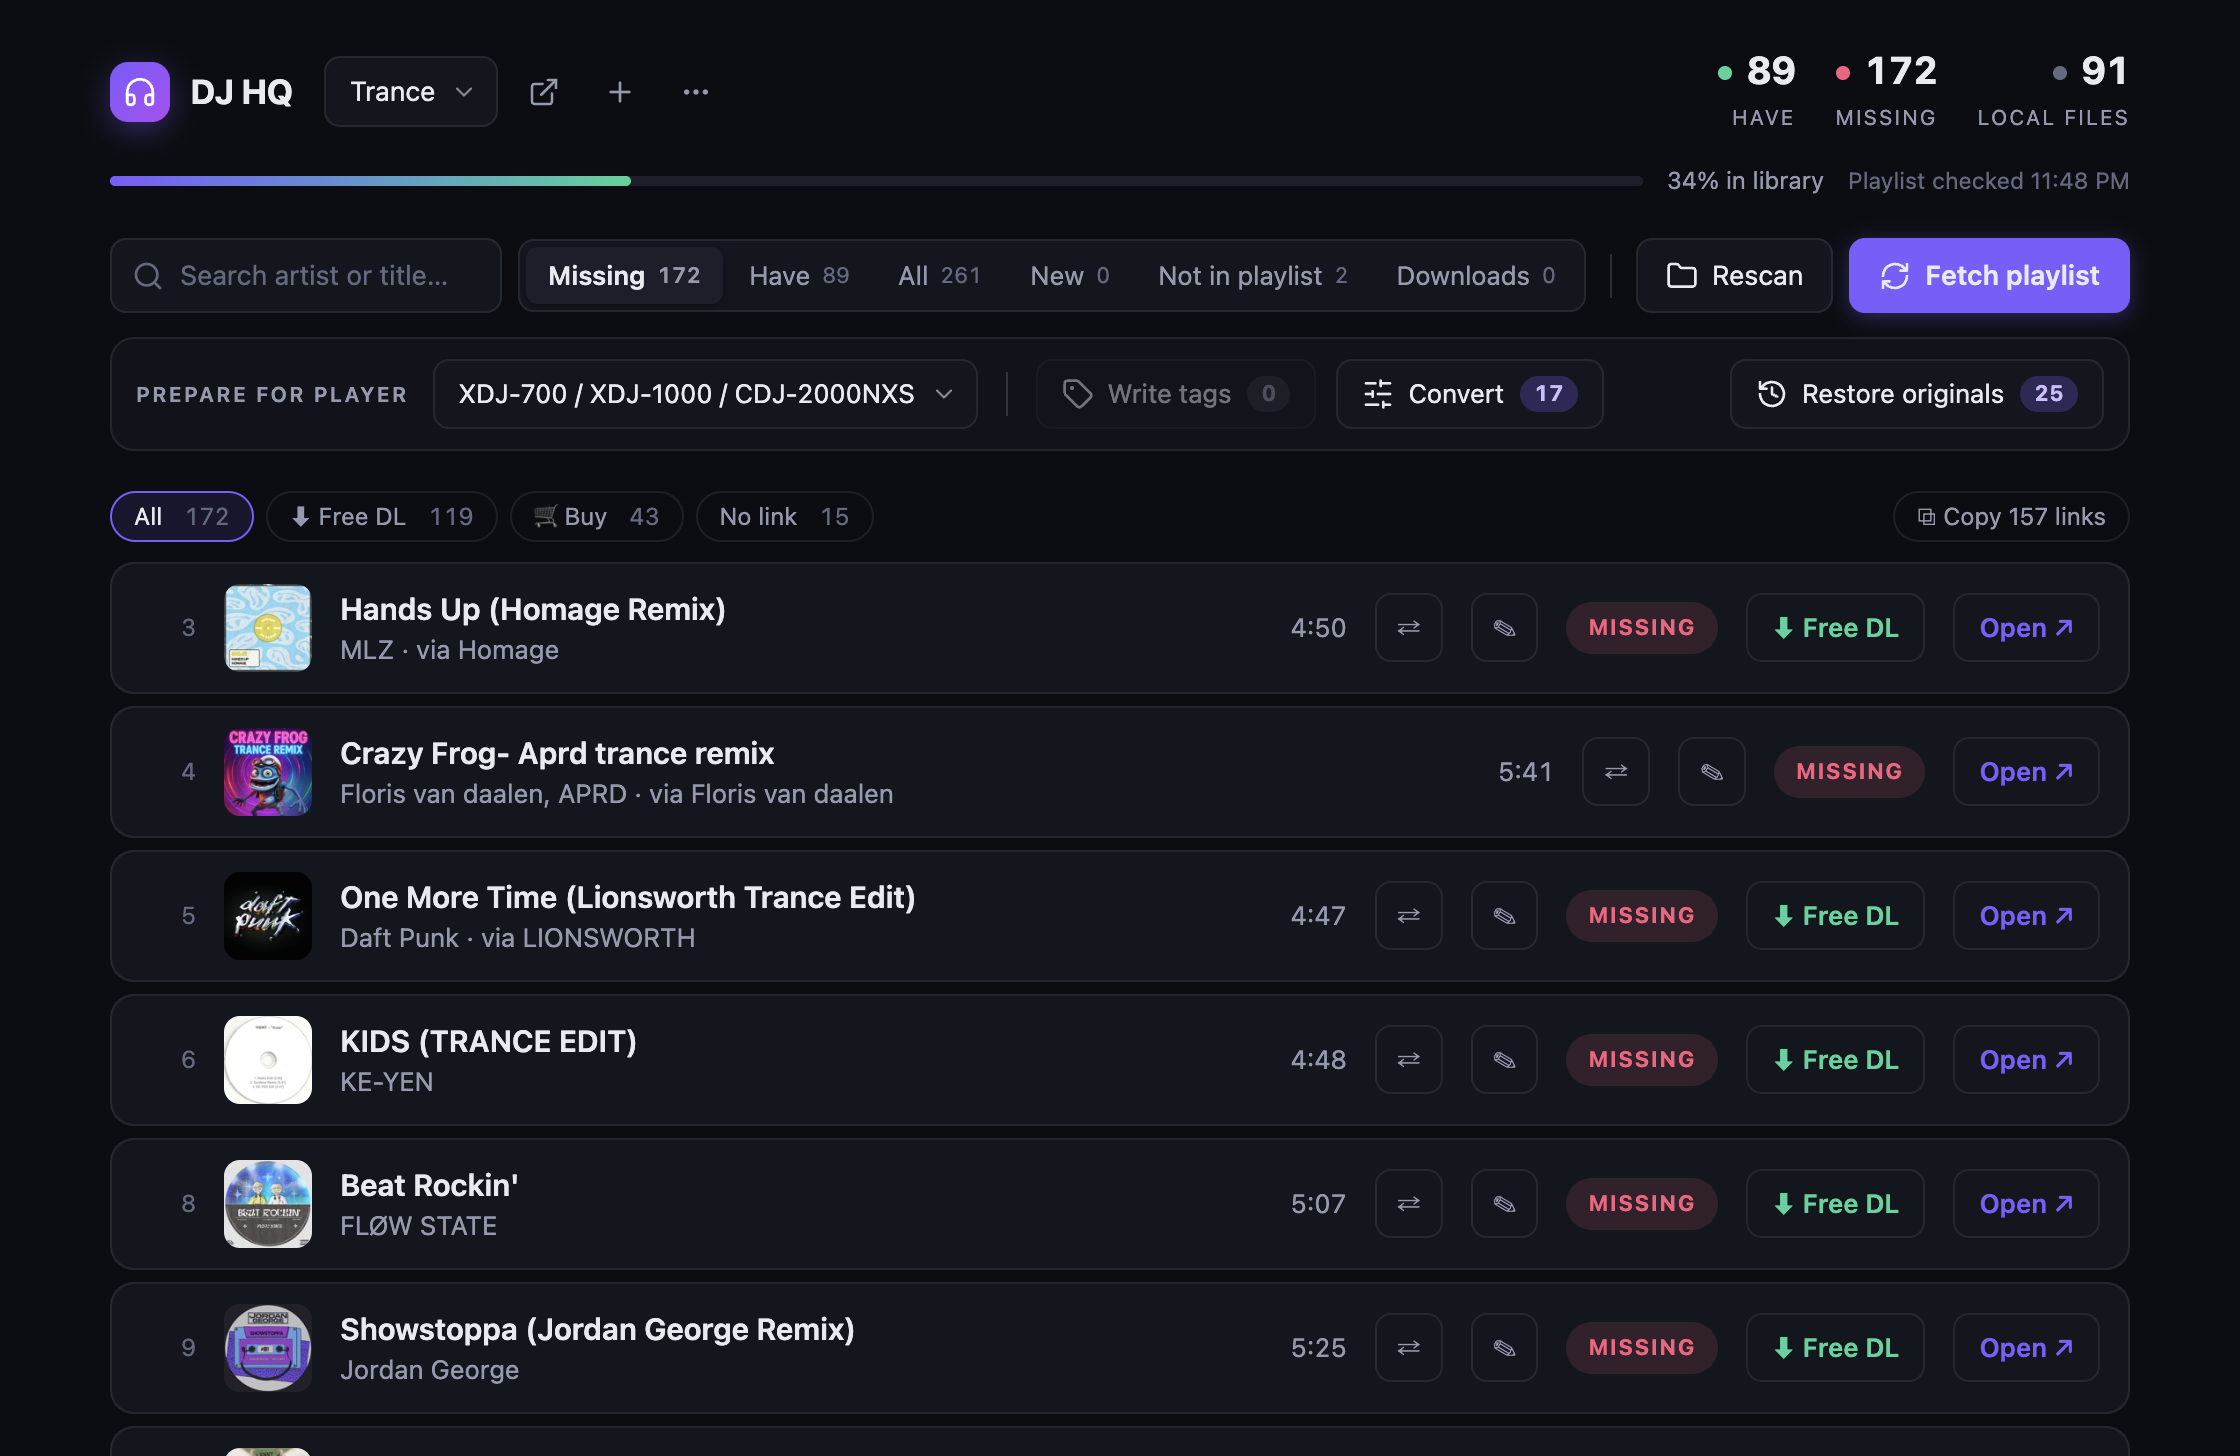
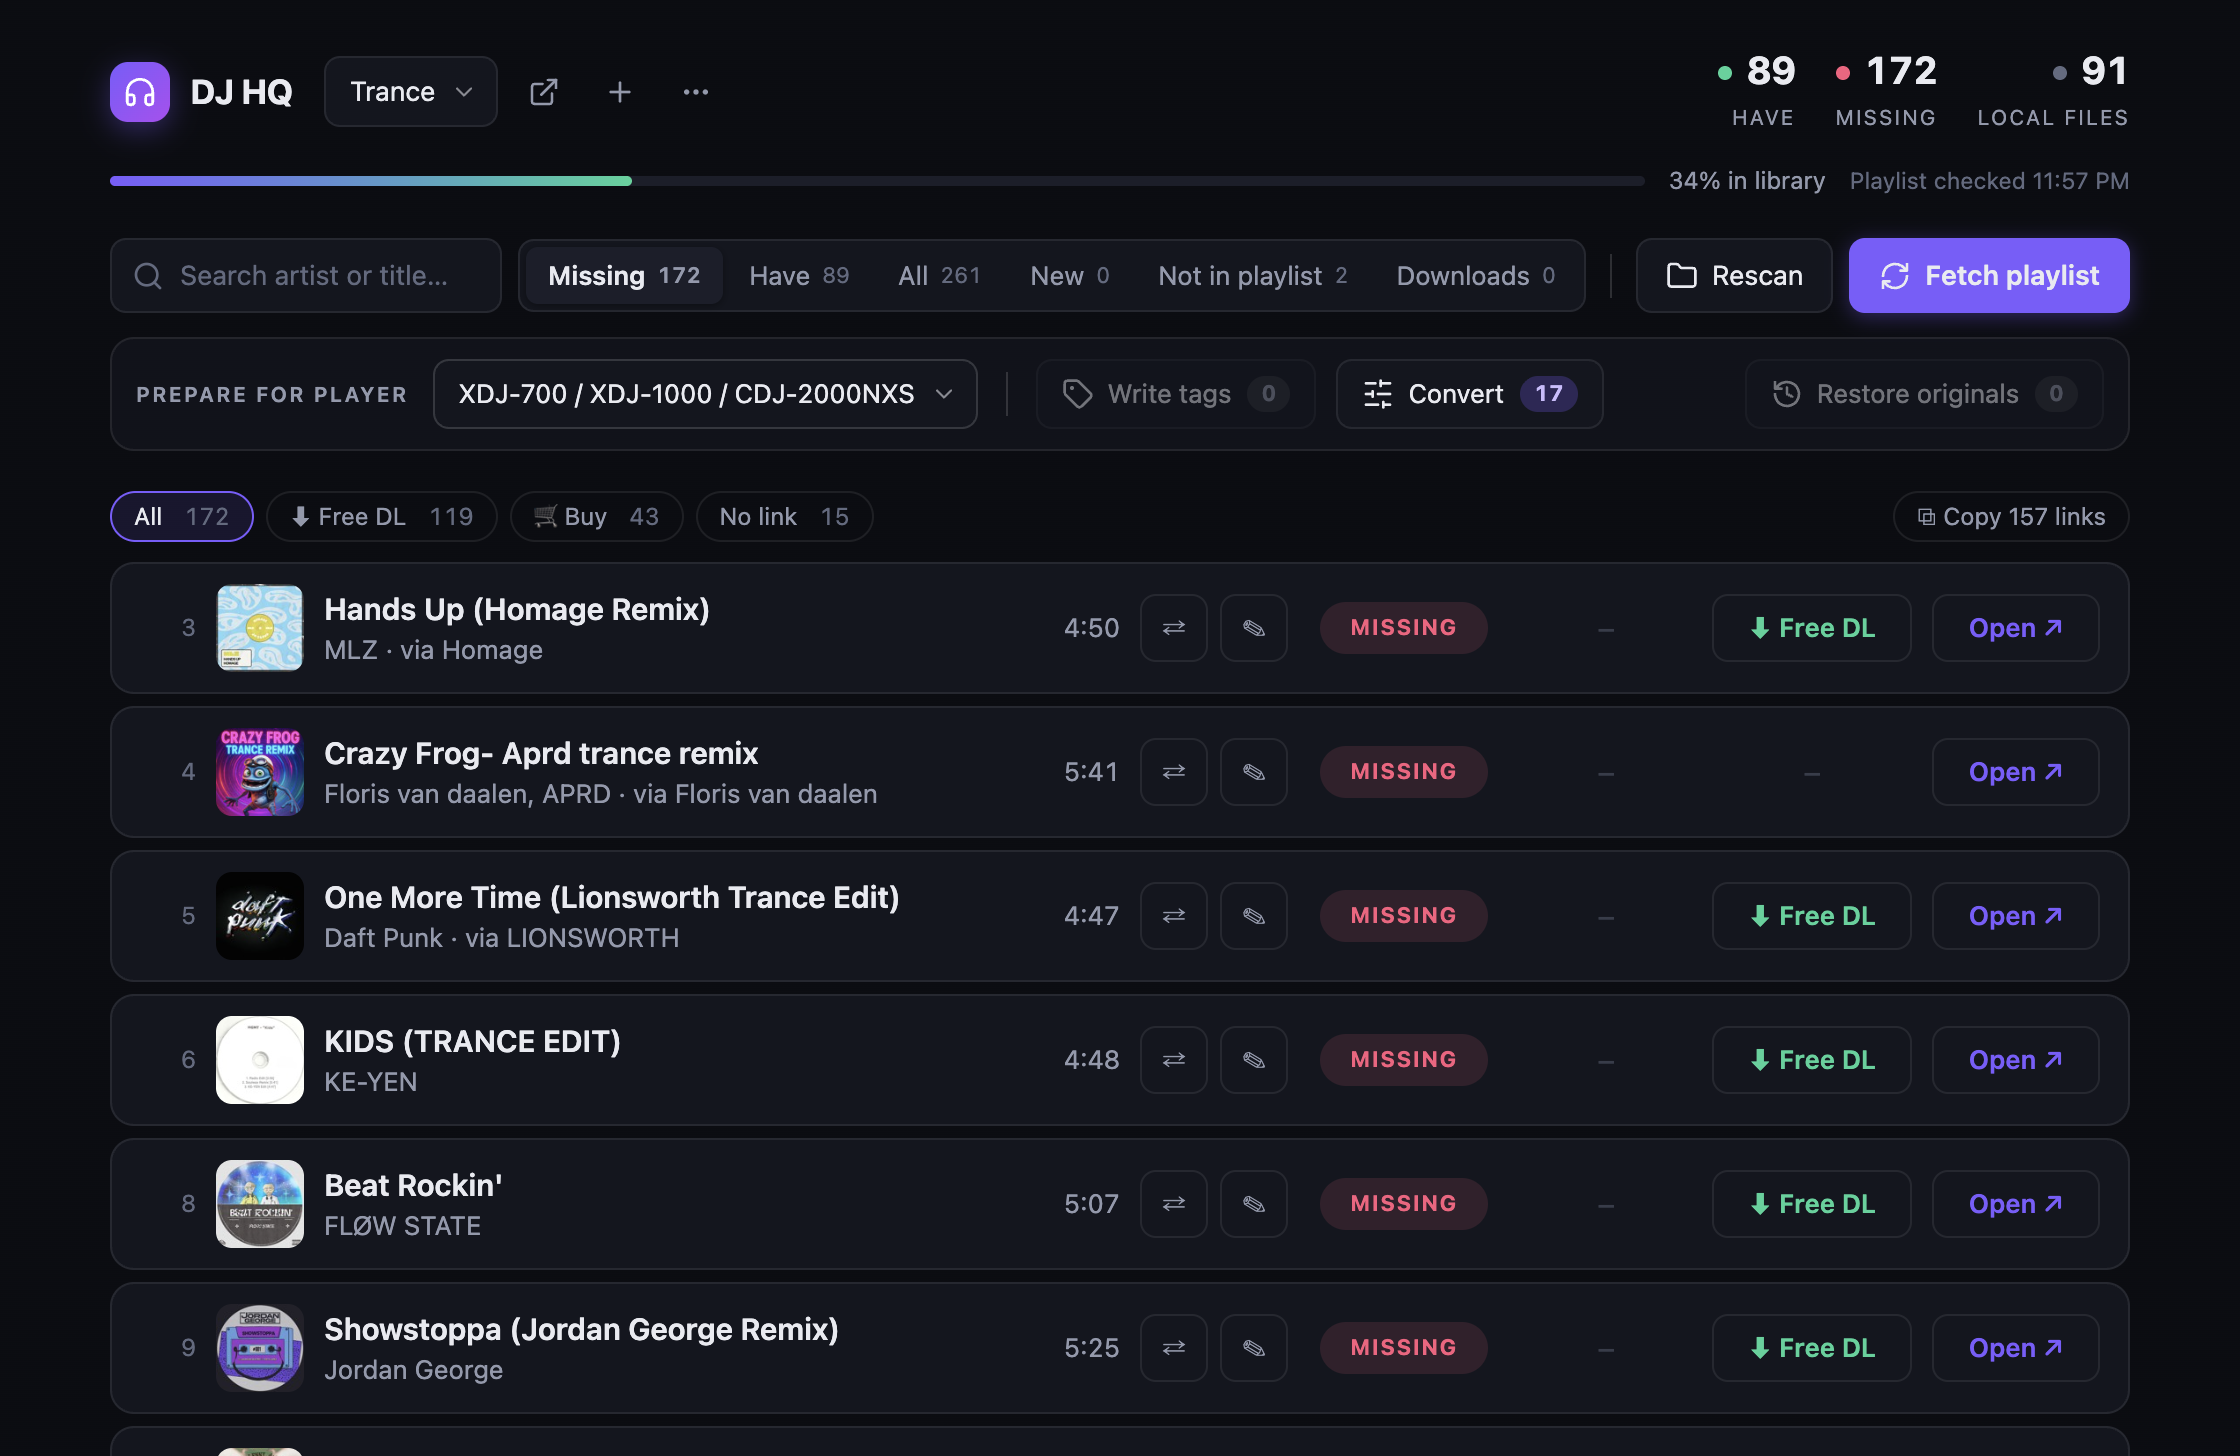
Release 1.0.0: README with screenshots and a step-by-step guide
Every tab and both dialogs now have a screenshot in the README, with
numbered instructions next to each: Missing (get the tracks), Have
(fix a match, the file picker), New (what changed), Not in playlist
(Find on SoundCloud), Downloads (move / upgrade), and Into rekordbox
(the XML export dialog). A "First run" section walks the first library.

Screenshots are 2× captures of the real UI rendered from the author's
library. The New and Downloads tabs were staged on a copy of the state
(tracks removed from the snapshot so they come back as NEW, generated
silent WAVs named after real tracks in a scratch inbox) so the features
have something to show; the export dialog shows the path a from-source
install writes to.

Version 1.0.0.

diff --git a/README.md b/README.md
@@ -10,103 +10,138 @@ cost you an evening:
 3. **Why does rekordbox show blank artist/title for my WAVs?**
 4. **Why won't my XDJ/CDJ play this file?**
 
-![DJ HQ](docs/screenshot.png)
+![The Missing tab: every track you don't have yet, with a button to the place you get it](docs/screenshot.png)
 
 ## How it works
 
 A *library* is one music folder linked to one public SoundCloud playlist. The
 app fetches the playlist, scans the folder, and matches files to tracks by
-filename similarity and duration. Everything else builds on that match.
+filename similarity and duration. Everything else builds on that match. The
+playlist is re-fetched on launch, every 15 minutes while the window is
+visible, and whenever you click **Fetch playlist**.
 
-### The tabs
+## The tabs
 
-- **Missing** — tracks with no file. Every row links to where you can get the
-  track (see *Getting the missing tracks*). Chips narrow the list to tracks
-  with a free download, a shop link, or no link at all, and **Copy links** puts
-  one `Artist – Title ⇥ link` line per shown track on the clipboard. Tracks you
-  marked *not available now* sit dimmed at the bottom.
-- **Have** — tracks with a file, showing the file name, how sure the match is,
-  whether the file is tagged, and whether your player can play it. The
-  **Lossless available** chip lists MP3s whose shop link sells a lossless file.
-- **All** — both.
-- **New** — what changed since you last pressed **Mark all as seen**: tracks
-  added to the playlist (purple **NEW**) and files that arrived in the folder
-  (green **NEW FILE**). It doubles as the to-do list of what still needs
-  tagging, converting and importing.
-- **Not in playlist** — files in your folder that match nothing in the
-  playlist. **Find on SoundCloud** searches for the track by name and duration
-  and shows candidates with their length difference; pick one and
-  **Add to playlist ↗** opens it on SoundCloud where you add it. Once it shows
-  up in the playlist, the file is matched to it automatically. **Find all**
-  accepts the sure matches for you and leaves doubtful ones for a manual pick.
-  A candidate that is *already* in the playlist is simply pinned to the file.
-- **Downloads** — fresh audio files in your Downloads folder matched against
-  the playlist. A download for a missing track gets **Move into library**; a
-  lossless download for a track you only have as MP3 gets **Upgrade** (the old
-  MP3 is kept under `originals/<library>/replaced/`). Files move as they are,
-  no renaming, and are pinned to their track. Set `inbox_dir` in `state.json`
-  to watch a different folder.
+### Missing — get the tracks you don't have
 
-### Getting the missing tracks
+The screenshot above. Every row has a button to the best place to get the
+file: **Buy** (a shop — Bandcamp, Beatport, …) and **Free DL** (a download
+gate such as Hypeddit, a Drive or Dropbox share, or SoundCloud's own download
+button). The links come from the uploader's purchase link *and* from the track
+description. Buy comes first when both exist: shops sell lossless files, free
+downloads are often MP3. Hover a button for the link's own wording, its host,
+and the format when it is certain.
 
-Each track row shows the best places to get the file:
+1. Narrow the list with the chips: **Free DL**, **Buy**, or **No link**.
+2. Click **Buy** or **Free DL**. The track page itself is behind **Open**.
+3. Working through a batch? **Copy links** puts one `Artist – Title ⇥ link`
+   line per shown track on the clipboard.
+4. Can't get a track today? Click its **MISSING** pill twice (MISSING → HAVE →
+   **N/A**). It moves to a dimmed section at the bottom and comes back by
+   itself, with a notice, the moment a download or shop link appears for it.
+5. When the download lands in your Downloads folder, the **Downloads** tab
+   takes it from there (below).
 
-- **Buy** and **Free DL** buttons come from the uploader's purchase link on
-  SoundCloud, from links written in the track description (`FREE DL:
-  https://…`, a Google Drive share, a Bandcamp page — socials and streaming
-  links are ignored), and from SoundCloud's own download button when it still
-  has downloads left.
-- When a track has both, **Buy** comes first: shops sell lossless files, free
-  downloads are often MP3. Bandcamp is preferred over other shops. Hover a
-  button to see the link's own wording, its host, and the format when the text
-  or the shop makes it certain.
-- **Not available now** — click the MISSING pill twice (MISSING → HAVE → N/A)
-  for a track you can't get today. It leaves the Missing list and comes back by
-  itself, with a notice, the moment a download or shop link appears for it.
+### Have — what's on disk
 
-### Fixing a match
+![The Have tab: the matched file, how sure the match is, tag status and player compatibility](docs/tab-have.png)
 
-- **⇄** opens a file picker for the track: pin any file in the folder to it,
-  force *no file*, or go back to automatic. A file taken from another track
-  frees that track to auto-match again.
+Each row shows the matched file, how sure the match is, whether the file is
+tagged, and whether the selected player can play it. The **Lossless
+available** chip lists MP3s whose shop link sells a lossless file.
+
+<p align="center"><img src="docs/dialog-match.png" width="430" alt="The file picker: pin any file in the folder to a track, or force no file"></p>
+
+- **⇄** opens the file picker: pin any file in the folder to the track, force
+  *no file*, or go back to automatic. A file taken from another track frees
+  that track to auto-match again.
 - The **HAVE / MISSING** pill overrides the status by hand.
-- **✎** edits artist and title (used for tags and the rekordbox export).
+- **✎** edits artist and title — used for the tags and the rekordbox export.
 
-### Keeping up
+### New — what changed since you last looked
 
-The playlist is re-fetched on launch, every 15 minutes while the window is
-visible, and when you click **Fetch playlist**. A small "Playlist checked
-12:05" label shows the last successful check and turns red with the reason if
-one fails. When the track set changed you get a toast ("2 new, 1 removed") and
-the additions land in the *New* tab.
+![The New tab: tracks added to the playlist and files that arrived in the folder](docs/tab-new.png)
 
-### Preparing for the player
+Two kinds of change collect here until you press **Mark all as seen**: tracks
+added to the playlist (purple **NEW**) and files that arrived in the folder
+(green **NEW FILE**). It doubles as the to-do list of what still needs
+tagging, converting and importing into rekordbox. When a refresh finds changes
+you also get a toast ("2 new, 1 removed").
+
+### Not in playlist — files the playlist doesn't know about
+
+![The Not in playlist tab: local files that match nothing, with Find on SoundCloud](docs/tab-not-in-playlist.png)
+
+Files in your folder that match nothing in the playlist. The goal is to get
+them *into* the playlist so it stays the single source of truth.
+
+<p align="center"><img src="docs/dialog-find.png" width="430" alt="Find on SoundCloud: candidates with their length difference and match score"></p>
+
+1. **Find all** searches SoundCloud for every file and accepts the sure
+   matches (same name and a clear gap to the runner-up).
+2. For the rest, **Find on SoundCloud** shows candidates with their length
+   difference and a match score; edit the search text if nothing fits.
+3. Pick one. **Add to playlist ↗** opens the track on SoundCloud, where you add
+   it to the playlist yourself — the app never writes to SoundCloud.
+4. Once the next refresh sees the track in the playlist, the file is pinned to
+   it automatically and leaves this tab.
+
+A candidate that is *already* in the playlist is simply pinned to the file:
+that's a match the fuzzy matcher missed.
+
+### Downloads — bring new files in
+
+![The Downloads tab: fresh downloads matched to tracks, with Move into library and Upgrade](docs/tab-downloads.png)
+
+Audio files in your Downloads folder, matched against the playlist the same
+way the library is.
+
+- **Move into library** — the file belongs to a missing track. It is moved as
+  it is (no renaming) and pinned to the track.
+- **Upgrade** — a lossless download for a track you only have as MP3. The MP3
+  goes to `originals/<library>/replaced/`, the new file takes its place.
+- **Move all** does both in one go, after a confirm that says how many are
+  upgrades.
+
+Zips and unfinished downloads are ignored. Files already in the library by
+name, and matches you hold an equal or better file for, are counted but not
+listed. Set `inbox_dir` in `state.json` to watch a different folder.
+
+## Preparing for the player
+
+The *Prepare for player* bar sits under the tabs. Pick your player first; the
+counts update to match its limits.
 
 - **Write tags** — writes rekordbox-compatible metadata to matched files:
   ID3v2.3 with UTF-16 frames *plus* a RIFF `INFO` chunk for WAVs (rekordbox is
   picky — plain UTF-8 ID3v2.3 tags are silently ignored). Genre is the playlist
   name; artist/title come from the playlist or your inline edits.
-- **Convert** — checks each file against the selected player's real limits
-  (the XDJ-700 only plays 16-bit WAV at 44.1/48 kHz; NXS2 and CDJ-3000 take
-  24-bit, 96 kHz and FLAC) and converts incompatible files **in place**: same
-  filename, same duration. rekordbox references tracks by path and stores cues
-  by time, so hot cues, memory cues and beat grids survive.
+- **Convert** — checks each file against the player's real limits (the XDJ-700
+  only plays 16-bit WAV at 44.1/48 kHz; NXS2 and CDJ-3000 take 24-bit, 96 kHz
+  and FLAC) and converts incompatible files **in place**: same filename, same
+  duration. rekordbox references tracks by path and stores cues by time, so hot
+  cues, memory cues and beat grids survive.
 - **Restore originals** — copies the untouched originals back.
 
-### Into rekordbox
+## Into rekordbox
 
-**⋯ → Export rekordbox XML…** writes the matched files of every library as
-rekordbox playlists, in SoundCloud order, to one file in the app's data folder.
-Point rekordbox at it once (Preferences → Advanced → Database → *rekordbox
-xml* → Browse) and import the playlist from the *rekordbox xml* node in the
-tree. Tracks already in your collection keep their cues and grids. Export again
-whenever the playlist changes — the path stays the same, rekordbox just
-re-reads it.
+<p align="center"><img src="docs/dialog-export.png" width="430" alt="Export rekordbox XML: the file path and the steps to import it"></p>
 
-### Multiple libraries
+1. **⋯ → Export rekordbox XML…** writes the matched files of every library as
+   rekordbox playlists, in SoundCloud order, to one file in the app's data
+   folder.
+2. In rekordbox, once: Preferences → Advanced → Database → *rekordbox xml* →
+   Browse to that file.
+3. A *rekordbox xml* item appears in the tree. Right-click the playlist there →
+   **Import Playlist**. Tracks already in your collection keep their cues and
+   grids.
+4. Export again whenever the playlist changes — the path stays the same, so
+   rekordbox just re-reads it.
+
+## Multiple libraries
 
 Each library links one folder to one playlist; switch in the header. Manual
-matches, edits and the *New* watermark are kept per library.
+matches, edits, N/A marks and the *New* watermark are kept per library.
 
 ## Install
 
@@ -143,6 +178,14 @@ cd playlist-app
 npm install
 npm start
 ```
+
+### First run
+
+1. **+ Add library**: choose your music folder and paste the URL of a public
+   SoundCloud playlist.
+2. The playlist is fetched and the folder scanned. The header shows how much of
+   the playlist you already have.
+3. Pick your player in the *Prepare for player* bar.
 
 ### Headless mode
 
